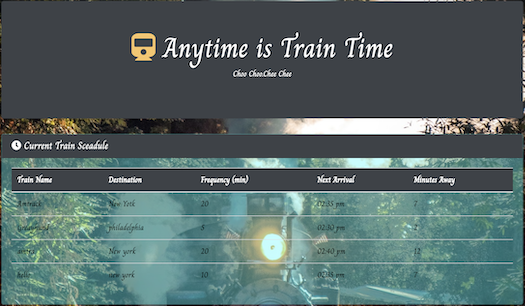
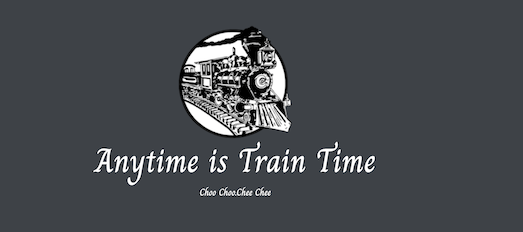
added time js

diff --git a/index.html b/index.html
@@ -28,10 +28,11 @@
 <body>
     <embed src="assets/mp3/14 Subway Smist.mp3" autostart="true" loop="true" height="0" width="0">
     <div class="container">
-        <div class="container">
+        <div class="container" style = "text-align: center">
             <div class="jumbotron backT" style="background-color: #3d4247; color: white;">
                 <div class="container">
-                    <h3 class="display-4 text-center"><strong><spna><i class="fas fa-train" style ="color: #f8c665"></i></spna>  Anytime is Train Time</strong></h3>
+                    <img src = "assets/images/favicon3.png" alt ="icon">
+                    <h3 class="display-4 text-center"><strong> Anytime is Train Time</strong></h3>
                     <p style="text-align: center">Choo Choo.Chee Chee</p>
                 </div>
             </div>
@@ -63,7 +64,7 @@
 
         <div class="container edit">
             <div class="card" id = "add">
-                <h5 class="card-header"style="background-color: #3d4247 ; color: white;"><i class="fas fa-train"></i>  Add Train</h5>
+                <h5 class="card-header"style="background-color: #3d4247 ; color: white;"><i class="fas fa-train"></i>  Add Train <span id ="date"></span></h5>
                 <div class="card-body edit">
                     <form style = "border-radius: 5px;">
                         <div class="form-group">

diff --git a/assets/javascript/train.js b/assets/javascript/train.js
@@ -10,6 +10,13 @@ firebase.initializeApp(config);
 
 var database = firebase.database();
 
+function date() {
+  var today = new Date().toLocaleString();
+  // console.log(today);
+  document.getElementById("date").innerHTML = today;
+}
+date();
+
 // 2. Populate Firebase Database with initial data (in this case, I did this via Firebase GUI)
 // 3. Button for adding trains
 $("#train-btn").on("click", function(event) {
